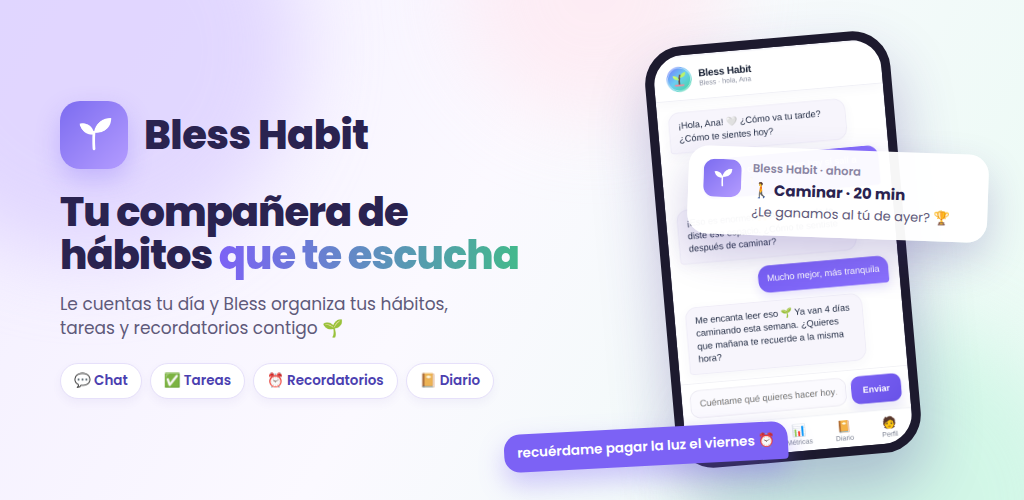
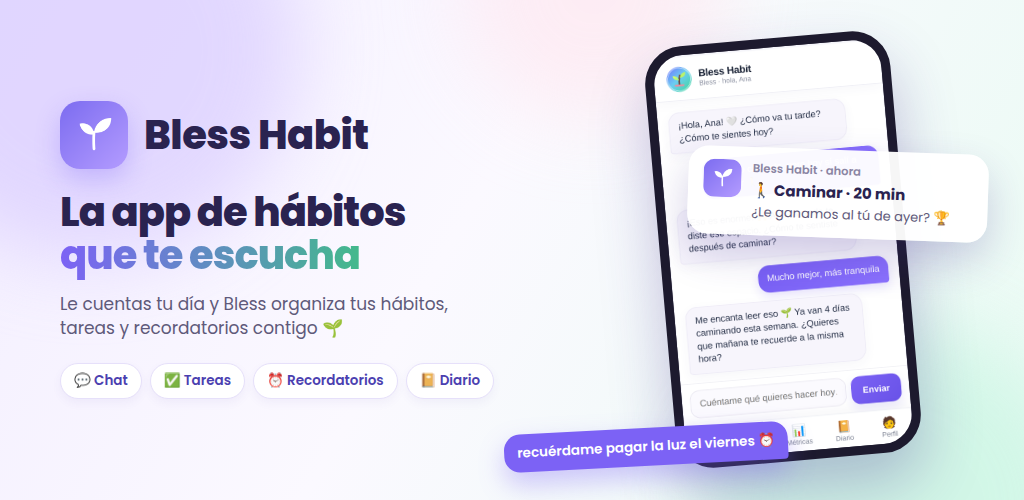
Use gender-neutral wording for Bless across the app and store listing
'Compañera/compañero' read as if the app were only for one gender.
Feature graphic, store descriptions (ES/EN), login text, onboarding
greeting and legal pages now use neutral phrasing.

Claude-Session: https://claude.ai/code/session_01SZyB2RBHanDyD9Bd6Bgubm

Changed region(s): [[0.0625, 0.39, 0.5312, 0.57]]

diff --git a/templates/index.html b/templates/index.html
@@ -1011,7 +1011,7 @@
   <div id="view-login" class="active">
     <div class="login-avatar"><svg class="bless-logo-svg" viewBox="0 0 64 64" aria-hidden="true"><defs><linearGradient id="blessLogoBg" x1="8" y1="4" x2="56" y2="60" gradientUnits="userSpaceOnUse"><stop offset="0" stop-color="#6F7BFF"/><stop offset=".48" stop-color="#6CCEF1"/><stop offset="1" stop-color="#42D6A1"/></linearGradient><linearGradient id="blessLogoLeaf" x1="20" y1="20" x2="45" y2="43" gradientUnits="userSpaceOnUse"><stop stop-color="#DFFF65"/><stop offset="1" stop-color="#62E6A9"/></linearGradient></defs><circle cx="32" cy="32" r="30" fill="url(#blessLogoBg)"/><circle cx="32" cy="32" r="27.5" fill="none" stroke="#fff" stroke-opacity=".7" stroke-width="1.5"/><path d="M31.8 43.8c.2-8.7.4-15.1 2.4-21.5" fill="none" stroke="#6B4B43" stroke-width="4" stroke-linecap="round"/><path d="M32 34c-8.6.4-13.6-3.4-15.2-10.5 7.7-.6 13.2 2.4 15.2 10.5Z" fill="url(#blessLogoLeaf)"/><path d="M34 28.5c1.5-8.1 6.3-12.6 14.1-13.5.3 7.9-4.3 12.7-14.1 13.5Z" fill="#B9F36B"/><path d="M22.5 46.5h19" stroke="#F08A9D" stroke-width="4" stroke-linecap="round"/></svg></div>
     <h2>Bless Habit</h2>
-    <p data-i18n="loginDesc">Tu compañero de hábitos y agenda. Inicia sesión para que Bless recuerde tu perfil y tu progreso entre visitas.</p>
+    <p data-i18n="loginDesc">Tu app de hábitos y agenda que te escucha. Inicia sesión para que Bless recuerde tu perfil y tu progreso entre visitas.</p>
     <a href="/auth/login" class="google-btn" id="google-login-btn" data-i18n="loginBtn">Continuar con Google</a>
     <div class="login-loading" id="login-loading" style="display:none;" data-i18n="loginLoading">Cargando tu información…</div>
     <!-- Enlaces públicos (Paddle los revisa para aprobar los cobros). -->
@@ -1550,7 +1550,7 @@ function t2(preset) { return currentLang() === 'en' ? preset.en : preset.label; 
 const I18N = {
   es: {
     headerSubKnowing: 'Bless te está conociendo…',
-    loginDesc: 'Tu compañero de hábitos y agenda. Inicia sesión para que Bless recuerde tu perfil y tu progreso entre visitas.',
+    loginDesc: 'Tu app de hábitos y agenda que te escucha. Inicia sesión para que Bless recuerde tu perfil y tu progreso entre visitas.',
     loginBtn: 'Continuar con Google',
     loginLoading: 'Cargando tu información…',
     agendaTitle: 'Agenda de hoy',
@@ -1593,7 +1593,7 @@ const I18N = {
     deDespiertoADuermo: (a, b) => `Despierto ${a}, duermo ${b}`,
     deAaB: (a, b) => `De ${a} a ${b}`,
 
-    obAsk1: '¡Hola! 👋 Soy Bless, tu compañero de hábitos y agenda. Antes de empezar quiero conocerte de verdad — esto va a tomar un par de minutos, pero vale la pena. ¿Cómo te llamas?',
+    obAsk1: '¡Hola! 👋 Soy Bless y voy a acompañarte con tus hábitos y tu agenda. Antes de empezar quiero conocerte de verdad — esto va a tomar un par de minutos, pero vale la pena. ¿Cómo te llamas?',
     obAsk2: (p) => `Un gusto, ${p.nombre} 🙌. ¿A qué hora empieza y a qué hora termina tu horario fijo de trabajo?`,
     obAsk3: '¿En qué momento del día sientes que tienes más energía y concentración? ⚡',
     obAsk4: '¿Te consideras más madrugador/a o más nocturno/a? 🌅🌙',
@@ -2019,7 +2019,7 @@ const I18N = {
   },
   en: {
     headerSubKnowing: 'Bless is getting to know you…',
-    loginDesc: 'Your habit and schedule companion. Sign in so Bless remembers your profile and progress between visits.',
+    loginDesc: 'The habit and schedule app that listens. Sign in so Bless remembers your profile and progress between visits.',
     loginBtn: 'Continue with Google',
     loginLoading: 'Loading your info…',
     agendaTitle: "Today's agenda",
@@ -4392,7 +4392,7 @@ async function refreshReminderLinesIfNeeded() {
   try {
     const p = state.profile;
     const langName = lang === 'en' ? 'inglés' : 'español';
-    const sys = `Eres Bless, la compañera cálida de hábitos de la app Bless Habit. Escribes frases cortas para notificaciones del teléfono. Responde SOLO con un JSON válido, sin texto extra.`;
+    const sys = `Eres Bless, de la app de hábitos Bless Habit, y acompañas a las personas con calidez. Escribes frases cortas para notificaciones del teléfono. Responde SOLO con un JSON válido, sin texto extra.`;
     const prompt = `Escribe en ${langName} frases para las notificaciones de ${p.nombre}, como las diría una amiga que la conoce.
 Lo que sabes (úsalo para personalizar, sin recitarlo):
 - Lo que más la motiva: ${optLabel('motivacion', p.motivacion) || p.motivacion || '—'}

diff --git a/templates/legal.html b/templates/legal.html
@@ -50,7 +50,7 @@
 {% if page == 'pricing' %}
   {% if lang == 'es' %}
   <h1>Precios</h1>
-  <p>Bless Habit es una app de hábitos con un compañero de inteligencia artificial, agenda, métricas y un diario personal. Puedes usarla gratis o pasarte a Premium.</p>
+  <p>Bless Habit es una app de hábitos con un asistente de inteligencia artificial, agenda, métricas y un diario personal. Puedes usarla gratis o pasarte a Premium.</p>
   <div class="plans">
     <div class="plan"><h3>Gratis</h3><div class="price">$0</div>
       <ul><li>Chat con Bless (hasta ~15 mensajes al día)</li><li>Hasta 3 hábitos, agenda y recordatorios</li><li>Diario personal</li><li>Cumplimiento diario, semanal y mensual</li><li>Con publicidad (en la web)</li></ul></div>
@@ -62,7 +62,7 @@
   <a class="cta" href="/">Empezar gratis</a>
   {% else %}
   <h1>Pricing</h1>
-  <p>Bless Habit is a habit app with an AI companion, a planner, progress metrics and a personal journal. Use it for free or upgrade to Premium.</p>
+  <p>Bless Habit is a habit app with an AI assistant, a planner, progress metrics and a personal journal. Use it for free or upgrade to Premium.</p>
   <div class="plans">
     <div class="plan"><h3>Free</h3><div class="price">$0</div>
       <ul><li>Chat with Bless (up to ~15 messages a day)</li><li>Up to 3 habits, planner and reminders</li><li>Personal journal</li><li>Daily, weekly and monthly completion</li><li>Ads (on the web)</li></ul></div>
@@ -80,7 +80,7 @@
   <div class="updated">Última actualización: {{ updated }}</div>
   <p>Estos términos regulan el uso de Bless Habit (la "app"), ofrecida por <strong>{{ legal_name }}</strong>, {{ country }} ("nosotros"). Al usar la app aceptas estos términos.</p>
   <h2>1. El servicio</h2>
-  <p>Bless Habit te ayuda a crear hábitos con un compañero de inteligencia artificial, una agenda, métricas y un diario personal. Bless no es un servicio médico ni psicológico y sus respuestas no reemplazan la ayuda de un profesional. Si estás en una emergencia, contacta a los servicios de emergencia de tu país.</p>
+  <p>Bless Habit te ayuda a crear hábitos con un asistente de inteligencia artificial, una agenda, métricas y un diario personal. Bless no es un servicio médico ni psicológico y sus respuestas no reemplazan la ayuda de un profesional. Si estás en una emergencia, contacta a los servicios de emergencia de tu país.</p>
   <h2>2. Tu cuenta</h2>
   <p>Inicias sesión con tu cuenta de Google. Eres responsable de lo que hagas con tu cuenta y de mantener tu acceso seguro. Debes tener al menos 13 años (o la edad mínima de tu país) para usar la app.</p>
   <h2>3. Plan Premium y pagos</h2>
@@ -104,7 +104,7 @@
   <div class="updated">Last updated: {{ updated }}</div>
   <p>These terms govern your use of Bless Habit (the "app"), provided by <strong>{{ legal_name }}</strong>, {{ country_en }} ("we", "us"). By using the app you agree to these terms.</p>
   <h2>1. The service</h2>
-  <p>Bless Habit helps you build habits with an AI companion, a planner, metrics and a personal journal. Bless is not a medical or psychological service and its replies do not replace professional help. If you are in an emergency, contact your local emergency services.</p>
+  <p>Bless Habit helps you build habits with an AI assistant, a planner, metrics and a personal journal. Bless is not a medical or psychological service and its replies do not replace professional help. If you are in an emergency, contact your local emergency services.</p>
   <h2>2. Your account</h2>
   <p>You sign in with your Google account. You are responsible for activity on your account and for keeping your access secure. You must be at least 13 years old (or the minimum age in your country) to use the app.</p>
   <h2>3. Premium plan and payments</h2>

diff --git a/bless-habit-capacitor/play-store/feature-graphic.html b/bless-habit-capacitor/play-store/feature-graphic.html
@@ -31,7 +31,7 @@ h1 em{font-style:normal;background:linear-gradient(90deg,#7C62F5,#43B98C);-webki
 <div class="blob b1"></div><div class="blob b2"></div><div class="blob b3"></div>
 <div class="left">
   <div class="brand"><img src="icon.png"><span>Bless Habit</span></div>
-  <h1>Tu compañera de hábitos <em>que te escucha</em></h1>
+  <h1>La app de hábitos<br><em>que te escucha</em></h1>
   <div class="sub">Le cuentas tu día y Bless organiza tus hábitos,<br>tareas y recordatorios contigo 🌱</div>
   <div class="chips"><span class="chip">💬 Chat</span><span class="chip">✅ Tareas</span><span class="chip">⏰ Recordatorios</span><span class="chip">📔 Diario</span></div>
 </div>

diff --git a/bless-habit-capacitor/play-store/PLAY_STORE.md b/bless-habit-capacitor/play-store/PLAY_STORE.md
@@ -49,12 +49,12 @@ Bless Habit: hábitos y diario
 
 **Descripción breve (máx. 80):**
 ```
-Tu compañera de hábitos que te escucha: agenda, diario, ánimo y recordatorios 🌱
+La app de hábitos que te escucha: agenda, tareas, diario y recordatorios 🌱
 ```
 
 **Descripción completa:**
 ```
-Bless es una compañera cálida que te ayuda a construir hábitos sin presión. Le cuentas tu día como a una amiga y ella organiza tu agenda, te recuerda lo importante y celebra contigo cada avance. 🌱
+Bless te acompaña a construir hábitos sin presión. Le cuentas tu día como a alguien de confianza y Bless organiza tu agenda, te recuerda lo importante y celebra contigo cada avance. 🌱
 
 💬 CONVERSA CON BLESS
 Escríbele lo que quieres hacer hoy o cómo te sientes. Bless entiende, te responde con cariño y arma tu día contigo.
@@ -63,7 +63,7 @@ Escríbele lo que quieres hacer hoy o cómo te sientes. Bless entiende, te respo
 Crea hábitos con días, hora y minutos por día. Marca lo que vas cumpliendo y mira tu racha crecer.
 
 ✅ TAREAS Y NOTAS DEL DÍA
-Cada día tiene tus hábitos, tus tareas y tus notas. Escríbele a Bless "recuérdame pagar la luz el viernes a las 6" o "anota que…" y ella lo guarda por ti.
+Cada día tiene tus hábitos, tus tareas y tus notas. Escríbele a Bless "recuérdame pagar la luz el viernes a las 6" o "anota que…" y Bless lo guarda por ti.
 
 ⏰ RECORDATORIOS
 Notificaciones a la hora de tus hábitos y tareas para que no se te pase nada.
@@ -92,21 +92,21 @@ Bless Habit: habits & journal
 
 **Short description:**
 ```
-Your habit companion who listens: schedule, journal, mood and reminders 🌱
+The habit app that listens: schedule, tasks, journal and reminders 🌱
 ```
 
 **Full description:**
 ```
-Bless is a warm companion that helps you build habits without pressure. Tell her about your day like you would a friend, and she organizes your schedule, reminds you of what matters and celebrates every win with you. 🌱
+Bless helps you build habits without pressure. Tell Bless about your day like you would a friend, and Bless organizes your schedule, reminds you of what matters and celebrates every win with you. 🌱
 
 💬 TALK TO BLESS
-Tell her what you want to do today or how you feel. Bless understands, answers kindly and plans your day with you.
+Tell Bless what you want to do today or how you feel. Bless understands, answers kindly and plans your day with you.
 
 📅 SCHEDULE & HABITS
 Create habits with days, time and minutes per day. Check them off and watch your streak grow.
 
 ✅ DAILY TASKS & NOTES
-Every day has your habits, tasks and notes. Tell Bless "remind me to pay the bill Friday at 6" or "take a note…" and she saves it for you.
+Every day has your habits, tasks and notes. Tell Bless "remind me to pay the bill Friday at 6" or "take a note…" and Bless saves it for you.
 
 ⏰ REMINDERS
 Notifications at your habit and task times so nothing slips by.
